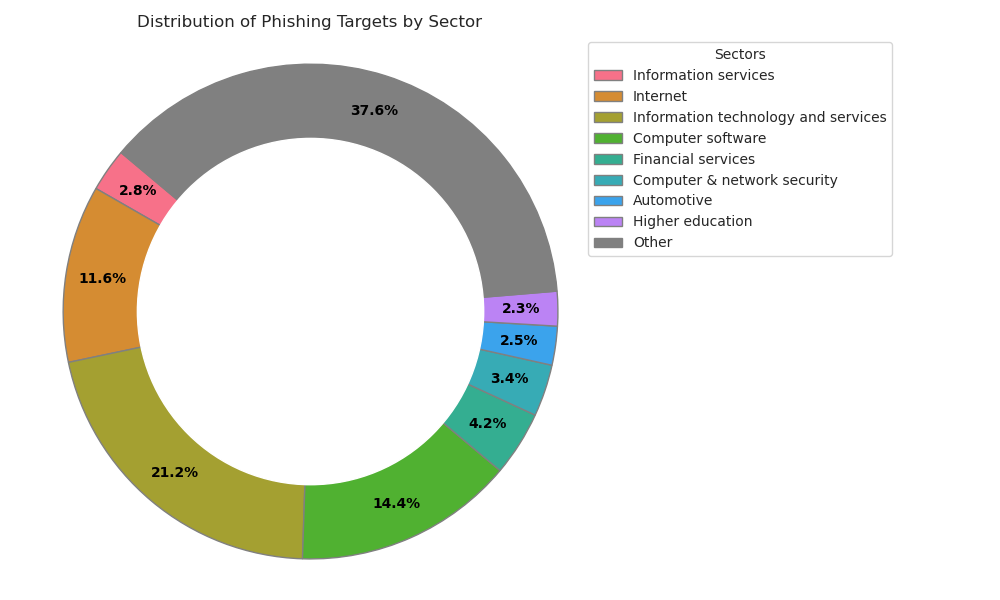
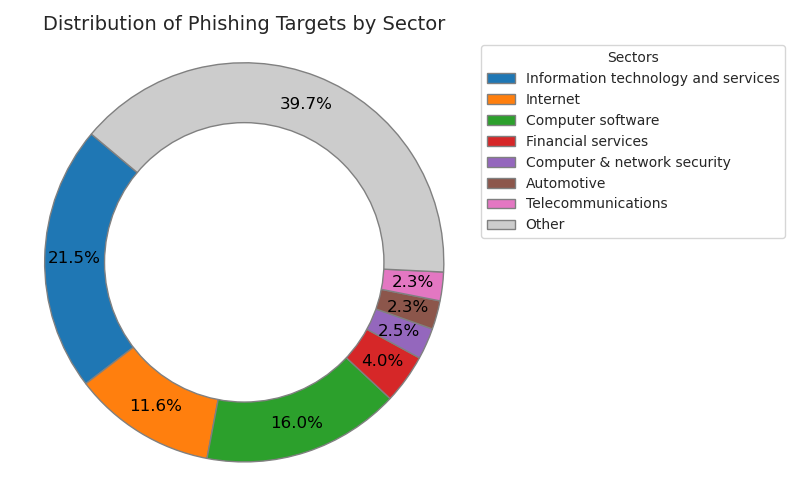
m

Changed region(s): [[0.0312, 0.09, 0.5625, 0.93], [0.5938, 0.06, 1.0, 0.48], [0.0312, 0.03, 0.5625, 0.06]]

diff --git a/field_study/draw_utils.py b/field_study/draw_utils.py
@@ -135,7 +135,6 @@ class GeneralAnalysis:
 
         # Set Seaborn style for an academic look
         sns.set_style("whitegrid")
-        colors = sns.color_palette("pastel")
 
         # Plotting
         fig, ax = plt.subplots(figsize=(10, 6))
@@ -148,17 +147,26 @@ class GeneralAnalysis:
         r2 = [x + width for x in r1]
         r3 = [x + width for x in r2]
 
-        plt.bar(r1, df['PhishLLM'], width=width, color=colors[0], label='PhishLLM')
-        plt.bar(r2, df['Phishpedia'], width=width, color=colors[1], label='Phishpedia')
-        plt.bar(r3, df['PhishIntention'], width=width, color=colors[2], label='PhishIntention')
+        # Create bars with different fill patterns
+        plt.bar(r1, df['PhishLLM'], width=width, color='grey', edgecolor='black', label='PhishLLM')
+        plt.bar(r2, df['Phishpedia'], width=width, color='lightgrey', edgecolor='black', label='Phishpedia')
+        plt.bar(r3, df['PhishIntention'], width=width, color='darkgrey', edgecolor='black', label='PhishIntention')
 
+        # Labels and title
         plt.xlabel('Date', fontsize=12)
         plt.ylabel('Number of Phishing Reported', fontsize=12)
         plt.title('Daily Phishing Reports by Solution', fontsize=14)
+
+        # X-axis ticks
         plt.xticks([r + width for r in range(len(df['Date']))], df['Date'], rotation=45)
-        # plt.yticks(np.arange(0, max(df['PhishLLM'].max(), df['Phishpedia'].max(), df['PhishIntention'].max()) + 1, 1))
+
+        # Adding grid
+        ax.yaxis.grid(True, linestyle='--', linewidth=0.7, alpha=0.7)
+
+        # Adding the legend
         plt.legend(loc='upper left', bbox_to_anchor=(1, 1), ncol=1)
 
+        # Layout adjustment
         plt.tight_layout()
         plt.savefig('./field_study/plots/num_phish.png')
         plt.close()
@@ -178,43 +186,47 @@ class DomainAnalysis:
 
     def domain_age_distribution(domain_age_list):
         sns.set_style("whitegrid")
-        plt.hist(domain_age_list, bins=20, edgecolor='black', color='gray')
-        plt.xlabel('Domain Age (in years)')
-        plt.ylabel('Frequency')
-        plt.title('Distribution of Domain Ages')
+        fig, ax = plt.subplots(figsize=(8, 6))
+        sns.histplot(domain_age_list, bins=20, kde=False, color='grey', edgecolor='black')
+
+        plt.title('Distribution of Domain Ages', fontsize=14)
+        plt.xlabel('Domain Age (in years)', fontsize=12)
+        plt.ylabel('Frequency', fontsize=12)
+        ax.tick_params(axis='both', which='major', labelsize=10)
+        ax.yaxis.grid(True, linestyle='--', linewidth=0.7, alpha=0.7)
         plt.xlim(left=0)
+        sns.despine()
         plt.tight_layout()
         plt.savefig('./field_study/plots/domain_age.png')
         plt.close()
 
 class BrandAnalysis:
 
-    def visualize_brands(brand_list):
+    def visualize_brands(brand_list, topk=10):
+        sns.set_style("whitegrid")
         brand_counts = Counter(brand_list)
 
         # Sort brands by frequency in descending order
         sorted_brands = sorted(brand_counts.items(), key=lambda x: x[1], reverse=True)
-        brands_sorted = [item[0] for item in sorted_brands][:5]
-        counts_sorted = [item[1] for item in sorted_brands][:5]
+        brands_sorted = [item[0] for item in sorted_brands][:topk]
+        counts_sorted = [item[1] for item in sorted_brands][:topk]
 
-        color = 'lightgray'
-        plt.figure(figsize=(12, 6))
-        plt.bar(brands_sorted, counts_sorted, color=color, edgecolor='black')
-        plt.xlabel('Brands')
-        plt.ylabel('Number of Times Targeted')
-        plt.title('Frequency of Phishing Targets')
-        plt.xticks(rotation=45)
-        plt.yticks(np.arange(0, max(counts_sorted) + 1, 1))  # Set ytick labels at integer values
-        plt.tight_layout()
+        plt.figure(figsize=(16, 6))  # Wider figure
+        plt.bar(brands_sorted, counts_sorted, color='lightgray', edgecolor='black')
+        plt.xlabel('Brands', fontsize=12)
+        plt.ylabel('Number of Times Targeted', fontsize=12)
+        plt.title(f'Top {topk} Phishing Targets by Frequency', fontsize=14)
+        plt.xticks(rotation=45, fontsize=10)
+        plt.yticks(np.arange(0, max(counts_sorted) + 1, 1), fontsize=10)
         plt.gca().spines['top'].set_visible(False)
         plt.gca().spines['right'].set_visible(False)
-        plt.grid(False)  # Turn off the grid
+        plt.grid(axis='y', linestyle='--', linewidth=0.5, color='gray')  # Light grid lines only for y-axis
+
+        plt.tight_layout()
         plt.savefig('./field_study/plots/brand_freq.png')
         plt.close()
 
     def visualize_sectors(sectors, threshold=2.0):
-        '''Visualize brand sectors'''
-
         # Aggregate the sectors
         sector_counts = {}
         for sector in sectors:
@@ -237,14 +249,15 @@ class BrandAnalysis:
             sector_counts['Other'] = other_count
 
         # Visualize the results
+        sns.set_style("white")
         labels = list(sector_counts.keys())
         sizes = list(sector_counts.values())
 
-        fig, ax = plt.subplots(figsize=(10, 6))
-        colors = sns.color_palette("husl", len(labels))
+        fig, ax = plt.subplots(figsize=(8, 5))
+        colors = sns.color_palette("tab10", len(labels))
         if 'Other' in labels:
             other_index = labels.index('Other')
-            colors[other_index] = 'gray'
+            colors[other_index] = (0.8, 0.8, 0.8)  # Light gray for 'Other'
 
         wedges, texts, autotexts = ax.pie(
             sizes,
@@ -252,29 +265,25 @@ class BrandAnalysis:
             startangle=140,
             colors=colors,
             pctdistance=0.85,  # Adjust this value to position the percentage labels
-            wedgeprops={'edgecolor': 'grey'},
+            wedgeprops={'edgecolor': 'grey', 'linewidth': 1},
+            textprops={'fontsize': 12, 'color': 'black'}
         )
 
-        # Draw a circle at the center to make it a donut chart
-        centre_circle = plt.Circle((0, 0), 0.70, fc='white')
+        # Draw a white circle at the center to make it a donut chart
+        centre_circle = plt.Circle((0, 0), 0.70, fc='white', edgecolor='grey', linewidth=1)
         fig.gca().add_artist(centre_circle)
-
-        # Enhance the appearance of the percentage labels
-        for autotext in autotexts:
-            autotext.set_color('black')
-            autotext.set_weight('bold')
 
         # Add a legend with the sector labels
         plt.legend(
-            loc="best",
+            loc="upper left",
             labels=labels,
             prop={'size': 10},
             title="Sectors",
-            bbox_to_anchor=(1, 0, 0.5, 1)
+            bbox_to_anchor=(1, 1)
         )
 
         plt.axis('equal')  # Equal aspect ratio ensures pie is drawn as a circle.
-        plt.title('Distribution of Phishing Targets by Sector')
+        plt.title('Distribution of Phishing Targets by Sector', fontsize=14)
         plt.tight_layout()
         plt.savefig('./field_study/plots/brand_sector.png')
         plt.close()
@@ -412,7 +421,7 @@ class CampaignAnalysis:
         for i, (cluster, color) in enumerate(zip(clusters, colors)):
             # Skip clusters with fewer than 3 items or only seen on a single date
             _, dates, targets = zip(*cluster)
-            if len(cluster) < 4 or len(set(dates)) == 1:
+            if len(cluster) < 4 or len(set(dates)) == 1 or targets[0] == 'outlook.com':
                 continue
             print(cluster)
             dates, counts = self.cluster_to_timeseries(cluster, all_dates)

diff --git a/field_study/tele/tele.py b/field_study/tele/tele.py
@@ -12,11 +12,11 @@ REQUEST_KWARGS = {"proxy_url": "http://127.0.0.1:7890"}
 
 class teleBot():
     def __init__(self):
-        updater = Updater(token=open('../../datasets/telegram_token.txt').read(),
+        updater = Updater(token=open('./datasets/telegram_token.txt').read(),
                           use_context=True,
                           request_kwargs=REQUEST_KWARGS)
-        # self.folder_to_label = "../../datasets/phishing_TP_examples"
-        self.folder_to_label = "../../datasets/field_study/2023-08-11"
+        # self.folder_to_label = "/home/ruofan/git_space/ScamDet/datasets/phishing_TP_examples"
+        self.folder_to_label = "./datasets/field_study/2023-08-11"
 
         self.dict_date = {}
         dispatcher = updater.dispatcher

diff --git a/README.md b/README.md
@@ -1,9 +1,10 @@
 # PhishLLM
 
 <p align="center">
-  <a href="">Paper</a> •
+  • <a href="">Paper</a> •
   <a href="">Website</a> •
-  <a href="#citation">Citation</a>
+  <a href="https://drive.google.com/drive/folders/1x6N6QEt_34B-pMStbBANUrjim-2ixG6T?usp=sharing">Datasets</a>  •
+  <a href="#citation">Citation</a> •
 </p>
 
 ## Introductions
@@ -71,6 +72,42 @@ Note that this will improve the phishing report precision but at the same time i
 ```
 - All hyperparameter configurations are stored in param_dict.yaml, e.g. the parameters for GPT, the threshold for OCR etc. 
 Please edit the file if you want to play with different combinations of parameters.
+
+## Findings
+<details>
+  <summary>Number of phishing caught</summary>
+  <img src="./field_study/plots/num_phish.png">
+</details>
+<details>
+  <summary>Phishing domain age distribution</summary>
+  <img src="./field_study/plots/domain_age.png">
+</details>
+<details>
+  <summary>Phishing domain TLD distribution</summary>
+
+  | Top-5 TLD | Frequency      |
+  |----------------| --------------- |
+  | .com    | 256 occurrences |
+  | .de   | 39 occurrences |
+  | .info    | 31 occurrences |
+  | .online    |  30 occurrences |
+  | .net    | 30 occurrences |
+
+</details>
+<details>
+  <summary>Top phishing targets, and top targeted sectors</summary>
+  <img src="./field_study/plots/brand_freq.png">
+  <img src="./field_study/plots/brand_sector.png">
+</details>
+<details>
+  <summary>Geolocations of phishing IPs</summary>
+  <img src="./field_study/plots/geo.png">
+</details>
+<details>
+  <summary>Phishing campaign analysis</summary>
+  <img src="./field_study/plots/campaign.png">
+</details>
+
 
 ## Updates
 - [🤔2023-08-27] We find supplying the industry sector to the brand recognition model can further improve the brand recognition capabilities, without affecting the robustness.
